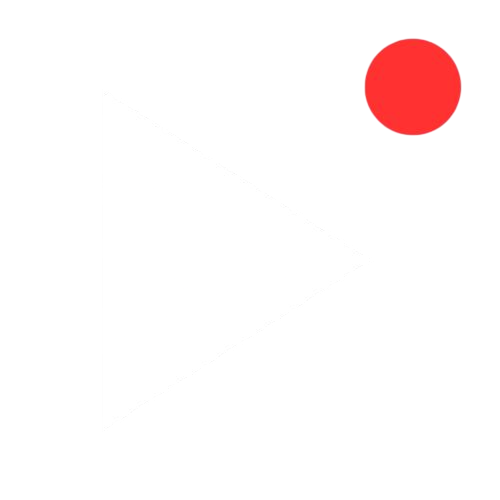
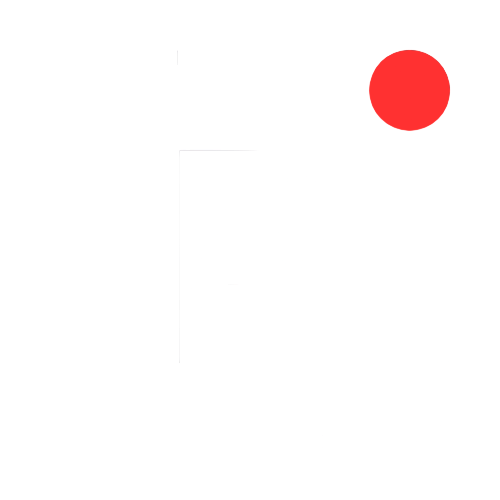
Update Parsona

Changed region(s): [[0.72, 0.06, 0.93, 0.27]]

diff --git a/parsona/app.js b/parsona/app.js
@@ -49,8 +49,6 @@ const els = {
     imageType: document.getElementById('imageType'),
     clearImage: document.getElementById('clearImage'),
     stream: document.getElementById('streamUrl'),
-    youtubeUrl: document.getElementById('youtubeUrl'),
-    twitchUrl: document.getElementById('twitchUrl'),
     instagramUrl: document.getElementById('instagramUrl'),
     customSocialLinksContainer: document.getElementById('customSocialLinksContainer'),
     customSocialModal: document.getElementById('customSocialModal'),
@@ -486,21 +484,6 @@ function createProfileCard(profile, id) {
     genderField.appendChild(genderLabel);
     genderField.appendChild(genderValue);
     
-    // ORIENTATION field (only show if has value)
-    if (profile.orientation) {
-        const orientationField = document.createElement('div');
-        orientationField.className = 'profile-card-field';
-        const orientationLabel = document.createElement('div');
-        orientationLabel.className = 'profile-card-field-label';
-        orientationLabel.textContent = 'ORIENTATION';
-        const orientationValue = document.createElement('div');
-        orientationValue.className = 'profile-card-field-value';
-        orientationValue.textContent = profile.orientation;
-        orientationField.appendChild(orientationLabel);
-        orientationField.appendChild(orientationValue);
-        info.appendChild(orientationField);
-    }
-    
     // MOOD field
     const moodField = document.createElement('div');
     moodField.className = 'profile-card-field';
@@ -520,9 +503,26 @@ function createProfileCard(profile, id) {
     moodField.appendChild(moodLabel);
     moodField.appendChild(moodValue);
     
+    // Append fields in CORRECT order
     info.appendChild(nameField);
     info.appendChild(countryField);
     info.appendChild(genderField);
+    
+    // ORIENTATION field (only show if has value) - ADD AFTER GENDER
+    if (profile.orientation) {
+        const orientationField = document.createElement('div');
+        orientationField.className = 'profile-card-field';
+        const orientationLabel = document.createElement('div');
+        orientationLabel.className = 'profile-card-field-label';
+        orientationLabel.textContent = 'ORIENTATION';
+        const orientationValue = document.createElement('div');
+        orientationValue.className = 'profile-card-field-value';
+        orientationValue.textContent = profile.orientation;
+        orientationField.appendChild(orientationLabel);
+        orientationField.appendChild(orientationValue);
+        info.appendChild(orientationField);
+    }
+    
     info.appendChild(moodField);
     
     // Add DOB if available
@@ -759,29 +759,42 @@ function displayProfile(profile) {
         }
     }
     
-    if (profile.youtubeUrl && profile.youtubeUrl.trim()) {
-        els.youtubeLink.href = profile.youtubeUrl;
-        els.youtubeLink.style.display = 'flex';
-        hasSocialLinks = true;
-    } else {
-        els.youtubeLink.style.display = 'none';
-    }
     
-    if (profile.twitchUrl && profile.twitchUrl.trim()) {
-        els.twitchLink.href = profile.twitchUrl;
-        els.twitchLink.style.display = 'flex';
-        hasSocialLinks = true;
-    } else {
-        els.twitchLink.style.display = 'none';
-    }
-    
+    // Only show Instagram from the built-in social links
     if (profile.instagramUrl && profile.instagramUrl.trim()) {
         els.instagramLink.href = profile.instagramUrl;
         els.instagramLink.style.display = 'flex';
+        els.instagramLink.style.flexDirection = 'column';
+        els.instagramLink.style.alignItems = 'center';
+        els.instagramLink.style.gap = '8px';
+        els.instagramLink.style.padding = '12px';
+        els.instagramLink.style.borderRadius = '12px';
+        els.instagramLink.style.background = 'linear-gradient(135deg, rgba(254, 213, 118, 0.1), rgba(244, 113, 51, 0.1), rgba(211, 66, 164, 0.1))';
+        els.instagramLink.style.transition = 'all 0.3s ease';
+        els.instagramLink.style.border = '2px solid transparent';
         hasSocialLinks = true;
+        
+        // Enhanced hover effect
+        els.instagramLink.onmouseover = function() {
+            this.style.transform = 'translateY(-5px) scale(1.05)';
+            this.style.background = 'linear-gradient(135deg, rgba(254, 213, 118, 0.15), rgba(244, 113, 51, 0.15), rgba(211, 66, 164, 0.15))';
+            this.style.border = '2px solid rgba(244, 113, 51, 0.3)';
+            this.style.boxShadow = '0 8px 16px rgba(211, 66, 164, 0.2)';
+        };
+        els.instagramLink.onmouseout = function() {
+            this.style.transform = 'translateY(0) scale(1)';
+            this.style.background = 'linear-gradient(135deg, rgba(254, 213, 118, 0.1), rgba(244, 113, 51, 0.1), rgba(211, 66, 164, 0.1))';
+            this.style.border = '2px solid transparent';
+            this.style.boxShadow = 'none';
+        };
     } else {
         els.instagramLink.style.display = 'none';
     }
+    
+    // Hide YouTube and Twitch - use custom social links instead
+    if (els.youtubeLink) els.youtubeLink.style.display = 'none';
+    if (els.twitchLink) els.twitchLink.style.display = 'none';
+
     
     // Display custom social links
     if (els.customSocialLinksDisplay) {
@@ -795,12 +808,17 @@ function displayProfile(profile) {
                 linkEl.href = link.url;
                 linkEl.target = '_blank';
                 linkEl.title = link.name || link.url;
+                linkEl.className = 'custom-social-link';
                 linkEl.style.display = 'flex';
                 linkEl.style.flexDirection = 'column';
                 linkEl.style.alignItems = 'center';
                 linkEl.style.textDecoration = 'none';
-                linkEl.style.transition = 'transform 0.2s, opacity 0.2s';
-                linkEl.style.gap = '5px';
+                linkEl.style.transition = 'all 0.3s ease';
+                linkEl.style.gap = '8px';
+                linkEl.style.padding = '12px';
+                linkEl.style.borderRadius = '12px';
+                linkEl.style.background = 'rgba(161, 161, 170, 0.1)';
+                linkEl.style.border = '2px solid transparent';
                 
                 const faviconUrl = getFaviconUrl(link.url);
                 const img = document.createElement('img');
@@ -810,7 +828,7 @@ function displayProfile(profile) {
                 img.style.height = '48px';
                 img.style.borderRadius = '8px';
                 img.style.objectFit = 'contain';
-                // Don't add white background - let the icon's natural appearance show
+                img.style.transition = 'transform 0.3s ease';
                 
                 img.onerror = function() {
                     // Fallback to Clearbit if Google fails
@@ -836,13 +854,18 @@ function displayProfile(profile) {
                 
                 linkEl.appendChild(img);
                 
+                // Enhanced hover effect
                 linkEl.onmouseover = function() {
-                    this.style.transform = 'scale(1.15)';
-                    this.style.opacity = '0.8';
+                    this.style.transform = 'translateY(-5px) scale(1.05)';
+                    this.style.background = 'rgba(161, 161, 170, 0.15)';
+                    this.style.border = '2px solid rgba(161, 161, 170, 0.3)';
+                    this.style.boxShadow = '0 8px 16px rgba(0, 0, 0, 0.15)';
                 };
                 linkEl.onmouseout = function() {
-                    this.style.transform = 'scale(1)';
-                    this.style.opacity = '1';
+                    this.style.transform = 'translateY(0) scale(1)';
+                    this.style.background = 'rgba(161, 161, 170, 0.1)';
+                    this.style.border = '2px solid transparent';
+                    this.style.boxShadow = 'none';
                 };
                 
                 els.customSocialLinksDisplay.appendChild(linkEl);
@@ -1341,8 +1364,6 @@ els.create.onclick = async () => {
     const password = els.pass.value.trim();
     const description = els.description.value.trim(); // Keep line breaks
     const streamUrl = els.stream.value.trim();
-    const youtubeUrl = els.youtubeUrl.value.trim();
-    const twitchUrl = els.twitchUrl.value.trim();
     const instagramUrl = els.instagramUrl.value.trim();
     
     // Get new fields
@@ -1405,8 +1426,6 @@ els.create.onclick = async () => {
         backgroundUrl: imageCrops.background.url,
         backgroundCrop: imageCrops.background.crop,
         streamUrl: streamUrl,
-        youtubeUrl: youtubeUrl,
-        twitchUrl: twitchUrl,
         instagramUrl: instagramUrl,
         customSocialLinks: currentCustomSocialLinks,
         cardStyle: cardStyle,
@@ -1517,8 +1536,6 @@ els.update.onclick = async () => {
     const password = els.pass.value.trim();
     const description = els.description.value.trim(); // Keep line breaks
     const streamUrl = els.stream.value.trim();
-    const youtubeUrl = els.youtubeUrl.value.trim();
-    const twitchUrl = els.twitchUrl.value.trim();
     const instagramUrl = els.instagramUrl.value.trim();
     
     // Get new fields
@@ -1578,8 +1595,6 @@ els.update.onclick = async () => {
         backgroundUrl: imageCrops.background.url,
         backgroundCrop: imageCrops.background.crop,
         streamUrl: streamUrl,
-        youtubeUrl: youtubeUrl,
-        twitchUrl: twitchUrl,
         instagramUrl: instagramUrl,
         customSocialLinks: currentCustomSocialLinks,
         cardStyle: cardStyle,
@@ -1787,8 +1802,6 @@ function loadProfileForEdit(profile) {
     els.pass.value = ''; // Don't fill password
     els.description.value = profile.description || '';
     els.stream.value = profile.streamUrl || '';
-    els.youtubeUrl.value = profile.youtubeUrl || '';
-    els.twitchUrl.value = profile.twitchUrl || '';
     els.instagramUrl.value = profile.instagramUrl || '';
     
     // Load new fields

diff --git a/parsona/styles.css b/parsona/styles.css
@@ -1010,9 +1010,10 @@ button:disabled {
 .social-links {
     display: flex;
     flex-wrap: wrap;
-    gap: 30px;
+    gap: 20px;
     align-items: center;
     justify-content: center;
+    padding: 10px 0;
 }
 
 .social-links a,
@@ -1021,13 +1022,25 @@ button:disabled {
     flex-direction: column;
     align-items: center;
     text-decoration: none;
-    transition: transform 0.2s, opacity 0.2s;
-    gap: 5px;
+    transition: all 0.3s ease;
+    gap: 8px;
+    cursor: pointer;
 }
 
-.social-links a:hover {
-    transform: scale(1.15);
-    opacity: 0.8;
+.social-links a svg {
+    transition: transform 0.3s ease, filter 0.3s ease;
+}
+
+.social-links a:hover svg {
+    filter: brightness(1.1);
+}
+
+.custom-social-link {
+    position: relative;
+}
+
+.custom-social-link img {
+    transition: transform 0.3s ease;
 }
 
 .stream {

diff --git a/parsona/index.html b/parsona/index.html
@@ -207,22 +207,14 @@
                     </div>
                     <div class="field">
                         <label>🔗 Social Media Links</label>
-                        <div style="display: grid; grid-template-columns: 1fr 1fr; gap: 10px; margin-bottom: 15px;">
-                            <div>
-                                <label style="font-size: 11px; color: #666;">YouTube Channel</label>
-                                <input type="text" id="youtubeUrl" placeholder="YouTube URL" style="margin-top: 3px;">
-                            </div>
-                            <div>
-                                <label style="font-size: 11px; color: #666;">Twitch Channel</label>
-                                <input type="text" id="twitchUrl" placeholder="Twitch URL" style="margin-top: 3px;">
-                            </div>
+                        <div style="margin-bottom: 15px;">
                             <div>
                                 <label style="font-size: 11px; color: #666;">Instagram Profile</label>
                                 <input type="text" id="instagramUrl" placeholder="Instagram URL" style="margin-top: 3px;">
                             </div>
                         </div>
                         <div style="margin-top: 20px;">
-                            <label style="font-size: 13px; color: #666; margin-bottom: 10px; display: block;">Additional Social Media</label>
+                            <label style="font-size: 13px; color: #666; margin-bottom: 10px; display: block;">Other Social Media (YouTube, Twitch, etc.)</label>
                             <div id="customSocialLinksContainer" style="display: flex; flex-wrap: wrap; gap: 10px; min-height: 60px; align-items: flex-start;">
                                 <!-- Custom social links will be shown here during edit -->
                             </div>